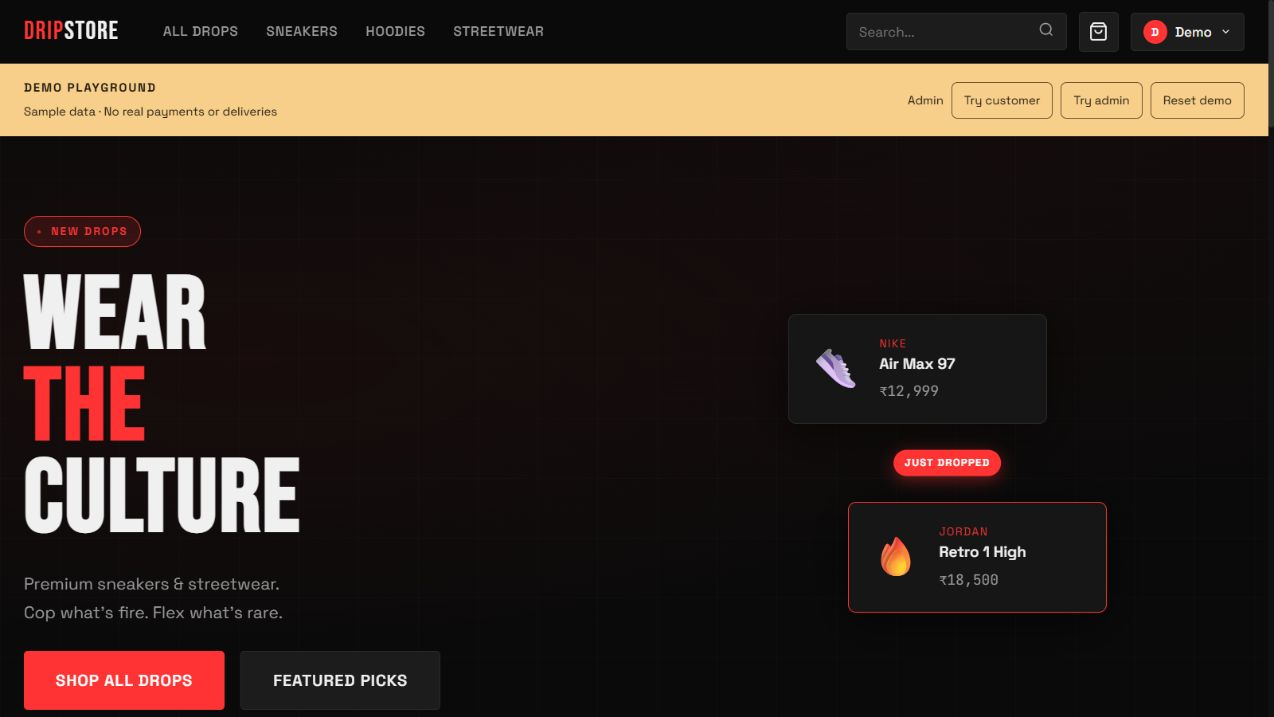
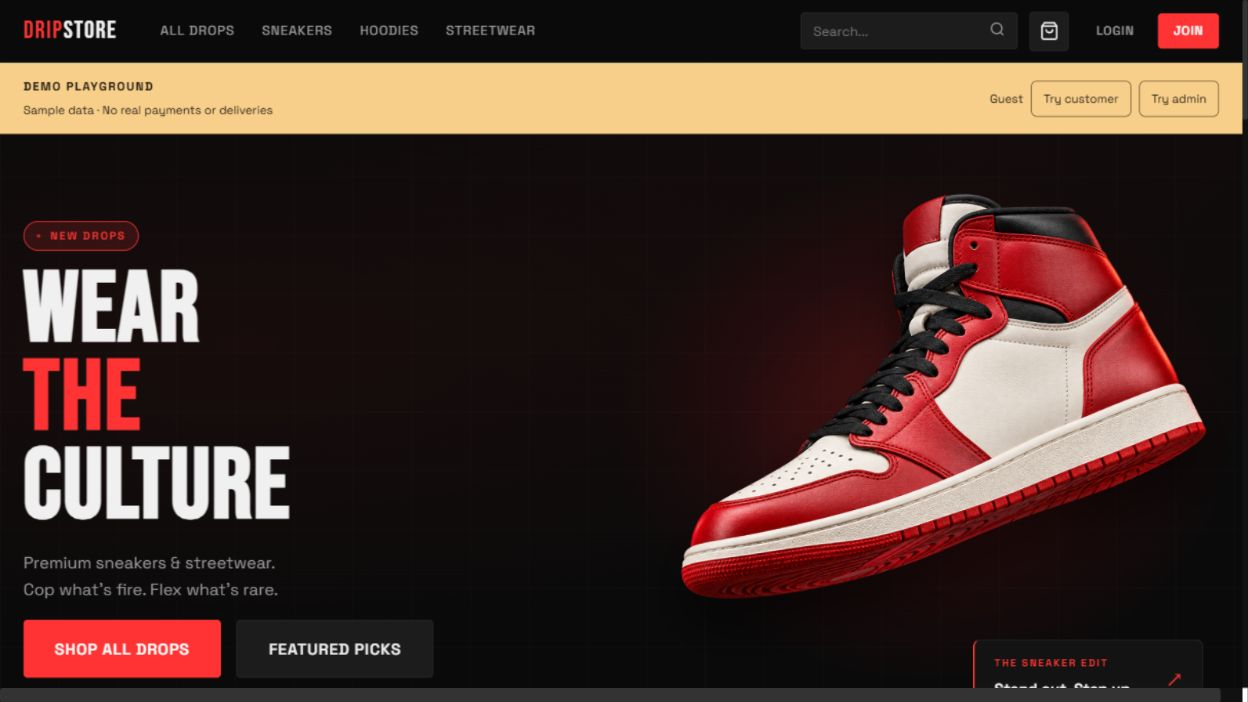
fix: refresh DripStore card preview

diff --git a/src/components/ProjectPreview.jsx b/src/components/ProjectPreview.jsx
@@ -16,10 +16,10 @@ export default function ProjectPreview({ title }) {
         alt={isPortfolio
           ? 'Avi Mishra personal portfolio — Software Engineer and Video Editor'
           : isDripStore
-          ? 'Live DripStore demo with playground controls, Wear the Culture headline, and sneaker highlights'
+          ? 'Live DripStore demo with playground controls, Wear the Culture headline, and a red-and-ivory high-top sneaker'
           : 'CareerCompass AI landing page with resume analysis and career matching tools'}
-        width={isPortfolio ? 1730 : isDripStore ? 1274 : 1275}
-        height={isPortfolio ? 909 : 717}
+        width={isPortfolio ? 1730 : isDripStore ? 1248 : 1275}
+        height={isPortfolio ? 909 : isDripStore ? 702 : 717}
         loading="lazy"
         className={isPortfolio || isDripStore
           ? 'block w-full aspect-[16/9] object-contain bg-[#090909]'
